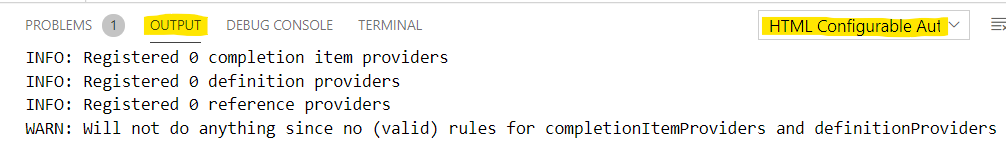
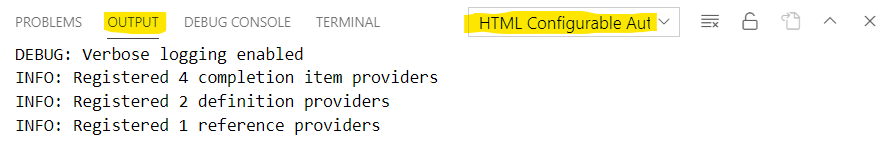
Transformer options

diff --git a/models/options/ConfigurableCompletionItemOptions.js b/models/options/ConfigurableCompletionItemOptions.js
@@ -57,6 +57,18 @@ module.exports = class ConfigurableCompletionItemOptions {
     excludeGlobPattern;
 
     /**
+     * This transformer will transform the contentRegexp matched text. The transformed text will be displayed as the completion item to the user. Optional. Default is no transformer.
+     * @type {string|undefined}
+     */
+    completionItemTransformer = '';
+
+    /**
+     * This transformer will will transform file content before the contentRegexp is executed. Optional. Default is no transformer.
+     * @type {string|undefined}
+     */
+    contentTransformer = '';
+
+    /**
      * A regexp used to extract completion items from content. The first capture group will be used, if present, otherwise the whole match is used. Optional. If you set it, you must also set includeGlobPattern.
      * @type {RegExp|undefined}
      */
@@ -80,10 +92,12 @@ module.exports = class ConfigurableCompletionItemOptions {
      * @param {string|undefined} [options.itemKind]
      * @param {string|null|undefined} [options.includeGlobPattern]
      * @param {string|null|undefined} [options.excludeGlobPattern]
+     * @param {string|null|undefined} [options.completionItemTransformer]
+     * @param {string|null|undefined} [options.contentTransformer]
      * @param {string} [options.contentRegexp]
      * @param {Array<string>} [options.staticItems]
      */
-    constructor ({ enable, triggerCharacters, triggerRegexp, maxFiles, maxItems, maxItemsPerFile, itemKind, includeGlobPattern, excludeGlobPattern, contentRegexp, staticItems }) {
+    constructor ({ enable, triggerCharacters, triggerRegexp, maxFiles, maxItems, maxItemsPerFile, itemKind, includeGlobPattern, excludeGlobPattern, completionItemTransformer, contentTransformer, contentRegexp, staticItems }) {
       if (!triggerCharacters || !Array.isArray(triggerCharacters) || triggerCharacters.length === 0) {
         throw new Error(`${errorPrefix} triggerCharacters is a required option and it must define at least one character`)
       }
@@ -98,6 +112,8 @@ module.exports = class ConfigurableCompletionItemOptions {
       this.includeGlobPattern = includeGlobPattern || this.includeGlobPattern
       this.excludeGlobPattern = excludeGlobPattern || this.excludeGlobPattern
       this.staticItems = staticItems && Array.isArray(staticItems) ? staticItems : this.staticItems
+      this.completionItemTransformer = completionItemTransformer || this.completionItemTransformer
+      this.contentTransformer = contentTransformer || this.contentTransformer
 
       if (triggerRegexp) {
         this.triggerRegexp = new RegExp(triggerRegexp, 'gi')

diff --git a/models/options/ConfigurableDefinitionOptions.js b/models/options/ConfigurableDefinitionOptions.js
@@ -8,6 +8,12 @@ module.exports = class ConfigurableDefinitionOptions {
     enable = true;
 
     /**
+     * This transformer will transform the definitionRegexp matched text. Optional. Default is no transformer.
+     * @type {string}
+     */
+    definitionTransformer = '';
+
+    /**
      * A regexp used to detect whether the cursor is on a definition name. The first capture group, if present, will be used as the name of the definition otherwise the whole match is used. Required.
      * @type {RegExp}
      */
@@ -26,6 +32,12 @@ module.exports = class ConfigurableDefinitionOptions {
     excludeGlobPattern = '';
 
     /**
+     * This transformer will transform file content before the contentRegexp is executed. Optional. Default is no transformer.
+     * @type {string}
+     */
+    contentTransformer = '';
+
+    /**
      * A regexp used to extract a definition name from content. The first capture group is used, if present, otherwise the whole match is used. If it's equal to the definitionRegexp match, then that location will open. Required.
      * @type {RegExp}
      */
@@ -34,13 +46,15 @@ module.exports = class ConfigurableDefinitionOptions {
     /**
      *
      * @param {object} options
-     * @param {boolean|undefined} [options.enable]
+     * @param {boolean|null|undefined} [options.enable]
+     * @param {string|null|undefined} [options.definitionTransformer]
      * @param {string} [options.definitionRegexp]
      * @param {string} [options.includeGlobPattern]
-     * @param {string|undefined} [options.excludeGlobPattern]
+     * @param {string|null|undefined} [options.excludeGlobPattern]
+     * @param {string|null|undefined} [options.contentTransformer]
      * @param {string} [options.contentRegexp]
      */
-    constructor ({ enable, definitionRegexp, includeGlobPattern, excludeGlobPattern, contentRegexp }) {
+    constructor ({ enable, definitionTransformer, definitionRegexp, includeGlobPattern, excludeGlobPattern, contentTransformer, contentRegexp }) {
       this.enable = enable != null ? enable : this.enable
       this.definitionRegexp = new RegExp(definitionRegexp, 'gi')
       this.contentRegexp = new RegExp(contentRegexp, 'gim')
@@ -49,5 +63,7 @@ module.exports = class ConfigurableDefinitionOptions {
       }
       this.includeGlobPattern = includeGlobPattern
       this.excludeGlobPattern = excludeGlobPattern || this.excludeGlobPattern
+      this.definitionTransformer = definitionTransformer || this.definitionTransformer
+      this.contentTransformer = contentTransformer || this.contentTransformer
     }
 }

diff --git a/models/providers/ConfigurableDefinitionProvider.js b/models/providers/ConfigurableDefinitionProvider.js
@@ -46,7 +46,8 @@ module.exports = class ConfigurableDefinitionProvider {
     while ((match = regexp.exec(currentLine.text))) {
       if (position.character >= match.index && position.character <= match.index + match[0].length) {
         const definitionName = match[1] || match[0]
-        return definitionName
+        const transformedDefinitionName = Transformer.transformContent(this.options.definitionTransformer, definitionName, currentLine.text)
+        return transformedDefinitionName.content
       } else {
         Logger.debug(`Definition regexp '${this.options.definitionRegexp.source}' matched '${match[0]}' but that match was discarded because the editor cursor was not placed inside that match`)
       }
@@ -69,7 +70,7 @@ module.exports = class ConfigurableDefinitionProvider {
     const results = await vscode.workspace.findFiles(includeGlobPattern, excludeGlobPattern, undefined, token)
 
     if (results.length === 0) {
-      Logger.warn(`Couldn't find any file for include pattern ${includeGlobPattern} and exclude pattern ${excludeGlobPattern} in definition provider rule with definition regexp ${this.options.definitionRegexp}`)
+      Logger.debug(`Couldn't find any file for include pattern ${includeGlobPattern} and exclude pattern ${excludeGlobPattern} in definition provider rule with definition regexp ${this.options.definitionRegexp}`)
       return
     }
 
@@ -78,8 +79,7 @@ module.exports = class ConfigurableDefinitionProvider {
         return
       }
       const content = await fs.readFile(result.fsPath)
-      // TODO: FROM OPTIONS
-      const transformResult = Transformer.transformContent('es6-module-nodes', content.toString(), result.fsPath)
+      const transformResult = Transformer.transformContent(this.options.contentTransformer, content.toString(), result.fsPath)
 
       const regexp = new RegExp(this.options.contentRegexp.source, this.options.contentRegexp.flags)
       let match

diff --git a/models/providers/ConfigurableCompletionItemProvider.js b/models/providers/ConfigurableCompletionItemProvider.js
@@ -110,7 +110,7 @@ module.exports = class ConfigurableCompletionItemProvider {
     const completionList = []
 
     if (results.length === 0) {
-      Logger.warn(`Couldn't find any file for include pattern ${includeGlobPattern} and exclude pattern ${excludeGlobPattern} in completion item rule with trigger characters ${this.options.triggerCharacters.join(',')}`)
+      Logger.debug(`Couldn't find any file for include pattern ${includeGlobPattern} and exclude pattern ${excludeGlobPattern} in completion item rule with trigger characters ${this.options.triggerCharacters.join(',')}`)
       return completionList
     }
 
@@ -120,15 +120,15 @@ module.exports = class ConfigurableCompletionItemProvider {
           break
         }
         const content = await fs.readFile(result.fsPath)
-        // TODO: use transformer name from options
-        const transformResult = Transformer.transformContent('es6-module-nodes', content.toString(), result.fsPath)
+        const transformResult = Transformer.transformContent(this.options.contentTransformer, content.toString(), result.fsPath)
 
         let itemPerFileMaxCount = this.options.maxItemsPerFile
         let match
         const regexp = new RegExp(this.options.contentRegexp.source, this.options.contentRegexp.flags)
         while ((match = regexp.exec(transformResult.content)) && (itemPerFileMaxCount-- > 0) && (completionList.length <= this.options.maxItems)) {
           const itemText = match[1] || match[0]
-          const item = new vscode.CompletionItem(itemText, this.options.itemKind)
+          const transformedItemText = Transformer.transformContent(this.options.completionItemTransformer, itemText, itemText)
+          const item = new vscode.CompletionItem(transformedItemText.content, this.options.itemKind)
           completionList.push(item)
         }
       } catch (error) {

diff --git a/models/providers/ConfigurableReferenceProvider.js b/models/providers/ConfigurableReferenceProvider.js
@@ -70,7 +70,7 @@ module.exports = class ConfigurableReferenceProvider {
     const results = await vscode.workspace.findFiles(includeGlobPattern, excludeGlobPattern, this.options.maxFiles, token)
 
     if (results.length === 0) {
-      Logger.warn(`Couldn't find any file for include pattern ${includeGlobPattern} and exclude pattern ${excludeGlobPattern} in reference provider rule with reference regexp ${this.options.referenceRegexp}`)
+      Logger.debug(`Couldn't find any file for include pattern ${includeGlobPattern} and exclude pattern ${excludeGlobPattern} in reference provider rule with reference regexp ${this.options.referenceRegexp}`)
       return
     }
 
@@ -87,8 +87,8 @@ module.exports = class ConfigurableReferenceProvider {
         break
       }
       const content = await fs.readFile(result.fsPath)
-      // TODO: FROM OPTIONS
-      const transformResult = Transformer.transformContent('es6-module-nodes', content.toString(), result.fsPath)
+      //Transformers currently not supported in reference providers
+      const transformResult = Transformer.transformContent('', content.toString(), result.fsPath)
 
       const regexp = new RegExp(this.options.contentRegexp.source, this.options.contentRegexp.flags)
       let match

diff --git a/models/transformers/Es6ModuleNodesTransformer.js b/models/transformers/Es6ModuleNodesTransformer.js
@@ -13,16 +13,16 @@ module.exports = class Es6ModuleNodesTransformer {
    */
   static transformContent (content, origin) {
     if (!content) {
-      Logger.debug(`Could not extract module nodes from empty content from '${origin}'`)
+      Logger.debug(`Could not extract module nodes from empty content from ${origin}`)
       return new TransformResult(content)
     }
 
     try {
       const file = parse(content, { ecmaVersion: 2020, sourceType: 'module' })
-      const transformedContent = NodesFormatter.formatNodes(file.program.body)
+      const transformedContent = NodesFormatter.formatNodes(file)
       return new TransformResult(transformedContent, Es6ModuleNodesTransformer.positionResolver)
     } catch (error) {
-      Logger.debug(`Could not extract tokens from ES6 Module '${origin || content}' because: ${error}`)
+      Logger.debug(`Could not extract tokens from ES6 Module ${origin || content} because: ${error}`)
       return new TransformResult('')
     }
   }

diff --git a/models/services/Transformer.js b/models/services/Transformer.js
@@ -29,7 +29,7 @@ module.exports = class Transformer {
     }
     const transformer = transformerMap[transformerName]
     const transformedContent = transformer.transformContent(content, origin)
-    Logger.debug(`Content from '${origin || content}' was transformed to:\n${transformedContent.content}`)
+    Logger.debug(`Content from ${origin || content} was transformed to:\n${transformedContent.content}`)
     return transformedContent
   }
 }

diff --git a/models/transformers/CamelCaseToKebabCaseTransformer.js b/models/transformers/CamelCaseToKebabCaseTransformer.js
@@ -11,7 +11,7 @@ module.exports = class CamelCaseToKebabCaseTransformer {
    */
   static transformContent (content, origin) {
     if (!content) {
-      Logger.debug(`Could not transform empty content from '${origin}' from camel case to kebab case`)
+      Logger.debug(`Could not transform empty content from ${origin} from camel case to kebab case`)
       return new TransformResult(content)
     }
 

diff --git a/models/transformers/KebabCaseToCamelCaseTransformer.js b/models/transformers/KebabCaseToCamelCaseTransformer.js
@@ -11,7 +11,7 @@ module.exports = class KebabCaseToCamelCaseTransformer {
    */
   static transformContent (content, origin) {
     if (!content) {
-      Logger.debug(`Could not transform empty content from '${origin}' from kebab case to camel case`)
+      Logger.debug(`Could not transform empty content from ${origin} from kebab case to camel case`)
       return new TransformResult(content)
     }
 

diff --git a/models/services/Logger.js b/models/services/Logger.js
@@ -11,6 +11,9 @@ module.exports = class Logger {
    */
   static setDebug (value) {
     isDebug = value
+    if (isDebug) {
+      Logger.debug("Verbose logging enabled")
+    }
   }
 
   /**

diff --git a/README.md b/README.md
@@ -20,7 +20,7 @@ Take a look at the [.vscode/settings.json](https://github.com/Halleymedia/vuejs-
   //Enable the extension (it can be omitted)
   "htmlConfigurableAutocomplete.enable": true,
 
-  //Enable debug (more verbose logging but just if you need to diagnose transformers or regexp behavior)
+  //Enable debug but only if you need more verbose logging to diagnose transformers or regexp issues
   "htmlConfigurableAutocomplete.debug": true,
 
   //Tell it how to autocomplete HTML content
@@ -67,8 +67,12 @@ Take a look at the [.vscode/settings.json](https://github.com/Halleymedia/vuejs-
       "triggerRegexp": "<[a-z-]+(\\s+[a-z-]+(=\".*?\")?)*[^\"<>]*",
       //Let's go look for this component definition and get its public fields (the definition is found thanks to the definition provider configured below)
       "includeGlobPattern": "${definitionFilePath}",
-      //And inside of it, look for fields (I know, I know, this should be less naive and maybe use a proper js parser, which maybe I'll implement soon)
-      "contentRegexp": "^\\s*([a-z0-9_]+)\\s*;?\\s*$",
+      //Transform original JavaScript content into a list of class and member definitions
+      "contentTransformer": "es6-module-nodes",
+      //And inside of it, look for setter methods
+      "contentRegexp": "instance public set ([a-z0-9_]+)",
+      //JavaScript properties are in camel case, so we transform them in kebab case since they will be used as element attributes
+      "completionItemTransformer": "camelcase-to-kebabcase",
       //They should have this icon
       "itemKind": "Field"
     },
@@ -83,8 +87,10 @@ Take a look at the [.vscode/settings.json](https://github.com/Halleymedia/vuejs-
       "triggerRegexp": "{{",
       //Go look inside a js file that has the same name and lives in the same directory
       "includeGlobPattern": "${dirPath}${fileNameWithoutExtension}[.]js",
-      //And inside of it, look for fields (again, it should use a less naive approach)
-      "contentRegexp": "^\\s*([a-z0-9_]+)\\s*;?\\s*$",
+      //Transform JS content as a list of class and members definitions
+      "contentTransformer": "es6-module-nodes",
+      //And inside of it, look for properties
+      "contentRegexp": "instance public property ([a-z0-9_]+)",
       //It should have this icon
       "itemKind": "Field"
     }
@@ -168,7 +174,7 @@ Additionally, the following placeholders are also supported for glob patterns of
  * `${definitionFileNameWithoutExtension}` is replaced with `LoadingIndicator`.
 
 ## Transformers
-Using regular expressions on JavaScript files might yield imprecise results. For instance, suppose you wanted to find all properties in a ES6 class like this.
+Using regular expressions to match parts of a JavaScript file might yield imprecise results. For instance, suppose you wanted to find all properties in a ES6 class like this.
 ```
 export default class Foo {
   loading
@@ -185,24 +191,23 @@ export default class Foo {
 ```
 If you wrote a regular expression like `^\s*([a-z0-9_]+)\s*$`, it would correctly match `loading` and `animating`, which is the two properties we are looking for, but it would also match `return` which is obviously not a property.
 
-By using transformers this extension can pre-process content before a regular expression is executed. For instance, by using the `es6-module-nodes` transformer, the previous ES6 class would be transformed like so:
+By using transformers, this extension can pre-process content before a regular expression is executed. For instance, by using the `es6-module-nodes` transformer, the previous ES6 class would be transformed like so:
 ```
 0,15 default class Foo  
 1,4 default class Foo  instance public property loading 
 2,4 default class Foo  instance public property animating 
 4,4 default class Foo  instance public method load 
 ``` 
-As you can see, each line represents a class definition or a member of that class and its position in the original file. In this way, it becomes way easier to write a regular expression that matches all properties: `instance public property ([a-z0-9_]+)`
+As you can see, each line represents a class or member definition and its node position in the original file. This way, it becomes way easier to write a regular expression that matches all properties. Try with `instance public property ([a-z0-9_]+)`
 
-Heres a list of the available transformers.
+## List of supported transformers
 
-#### es6-module-nodes
+### es6-module-nodes
 Internally uses `babel-eslint` to create a textual representation of a ES6 class that's easier for regexp to work on.
 
 It can be used for the following settings:
  * `htmlConfigurableAutocomplete.completionItemProviders[].contentTransformer`
  * `htmlConfigurableAutocomplete.definitionProviders[].contentTransformer`
- * `htmlConfigurableAutocomplete.referenceProviders[].contentTransformer`
 
 Here's a more complete example. The following ES6 class:
 ```
@@ -243,23 +248,24 @@ It's going to be transformed to
 18,4 default class Foo @Fizz,@Buzz instance public get percent 
 21,4 default class Foo @Fizz,@Buzz instance public set visibile 
 ```
-Class info is repeated for each of its members. Zero-based position (line, column) where the original defintion was found is placed at the beginning of each line.
+Class info is repeated for each of its members, in case you wanted to match members of just a particular class. Each output line starts with the zero-based position (line,character) where the original node started.
 
-#### camelcase-to-kebabcase
+The previous example showed the ES6-style exports but it also works with node-style exports (e.g. `module.exports = class Foo {}`).
+
+### camelcase-to-kebabcase
 Simply transforms a `camelCase` string into `kebab-case`.
 
-It can be used for the following settings:
- * `htmlConfigurableAutocomplete.completionItemProviders[].completionItemTransformer`;
+It can be used for the following setting:
+ * `htmlConfigurableAutocomplete.completionItemProviders[].completionItemTransformer`
 
-#### kebabcase-to-camelcase
+### kebabcase-to-camelcase
 Simply transforms a `kebab-case` string into `camelCase`.
 
-It can be used for the following settings:
- * `htmlConfigurableAutocomplete.definitionProviders[].definitionTransformer`;
-
+It can be used for the following setting:
+ * `htmlConfigurableAutocomplete.definitionProviders[].definitionTransformer`
 
 ## Logging
-This extension will log debug, info, warning and error messages in a Visual Studio Code output channel named "HTML Configurable Autocomplete". These messages might help you understand how your rules are behaving, expecially if you set the `htmlConfigurableAutocomplete.debug` option to `true`.
+This extension will log messages to a Visual Studio Code output channel named "HTML Configurable Autocomplete". These messages might help you understanding how your rules and regular expressions are behaving, expecially if you set the `htmlConfigurableAutocomplete.debug` option to `true`.
 
 ![log.png](log.png)
 
@@ -267,14 +273,14 @@ This extension will log debug, info, warning and error messages in a Visual Stud
 
 Oh well, some things could be improved...
 
- * This version works with regular expressions so it doesn't offer any advanced, full-fledged JavaScript parser that could help you get completion items by descriptors in a js file.
+ * The use of transformers might lead to suboptimal performance with large projects since no caching mechanism is used in the current version. Caching for completion items, definitions and references might be implemented in a future version, along with file watchers for automatic cache invalidation.
 
 ## Release Notes
 
-### 1.2.0 (2020-08-xx)
+### 1.2.0 (2020-08-18)
 
- - Added content and completion transformers
- - Added debug mode.
+ - Added 3 transformers: `es6-module-nodes`, `camelcase-to-kebabcase`, `kebabcase-to-camelcase`;
+ - Added verbose logging via the `debug` setting.
 
 ### 1.1.0 (2020-07-29)
 

diff --git a/CHANGELOG.md b/CHANGELOG.md
@@ -3,6 +3,11 @@
 
 ## [Unreleased]
 
+## [1.2.0] - 2020-08-18
+### Added
+ - Added 3 transformers: `es6-module-nodes`, `camelcase-to-kebabcase`, `kebabcase-to-camelcase`.
+ - Added verbose logging via the `debug` setting.
+
 ## [1.1.0] - 2020-07-29
 ### Added
  - Reference providers.
